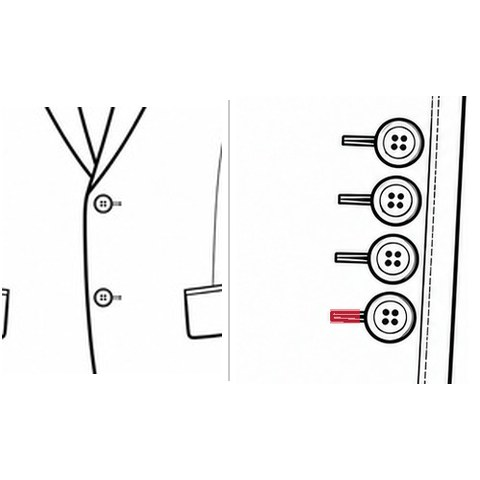
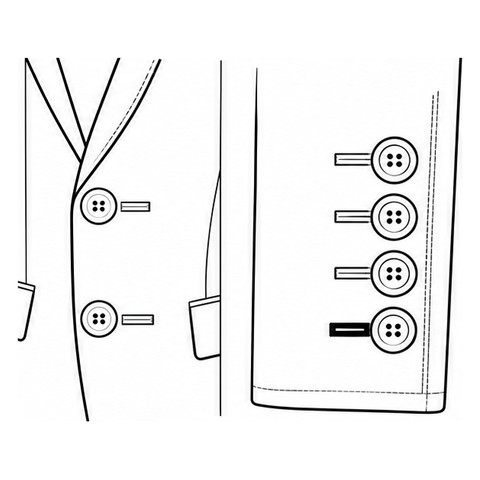
Use Daniel's contrast buttonhole graphics; rename to Bottom Sleeve Buttonhole Only
Claude-Session: https://claude.ai/code/session_01Y2WUq1Hks47P3CnTC1FrWF

diff --git a/catalog.js b/catalog.js
@@ -2666,7 +2666,7 @@ JACKET_CATALOG.buttonholeColorPlacement = {
   options: [
     { name: "Front & Sleeves", specName: "Front & Sleeves", displayName: "Front & All Sleeve Buttonholes", img: "./assets/jacket-contrastholes-front-and-sleeves.jpg" },
     { name: "Sleeves Only", specName: "Sleeves Only", displayName: "Sleeve Buttonholes Only", img: "./assets/jacket-contrastholes-sleeves-only.jpg" },
-    { name: "Bottom Sleeve Buttonhole", specName: "Bottom Sleeve Buttonhole", displayName: "Just the Bottom Sleeve Buttonhole", img: "./assets/jacket-contrastholes-cuff-edge-only.jpg" },
+    { name: "Bottom Sleeve Buttonhole", specName: "Bottom Sleeve Buttonhole", displayName: "Bottom Sleeve Buttonhole Only", img: "./assets/jacket-contrastholes-cuff-edge-only.jpg" },
   ],
 };
 // Felt under collar: the hidden structural layer sewn beneath the outer
